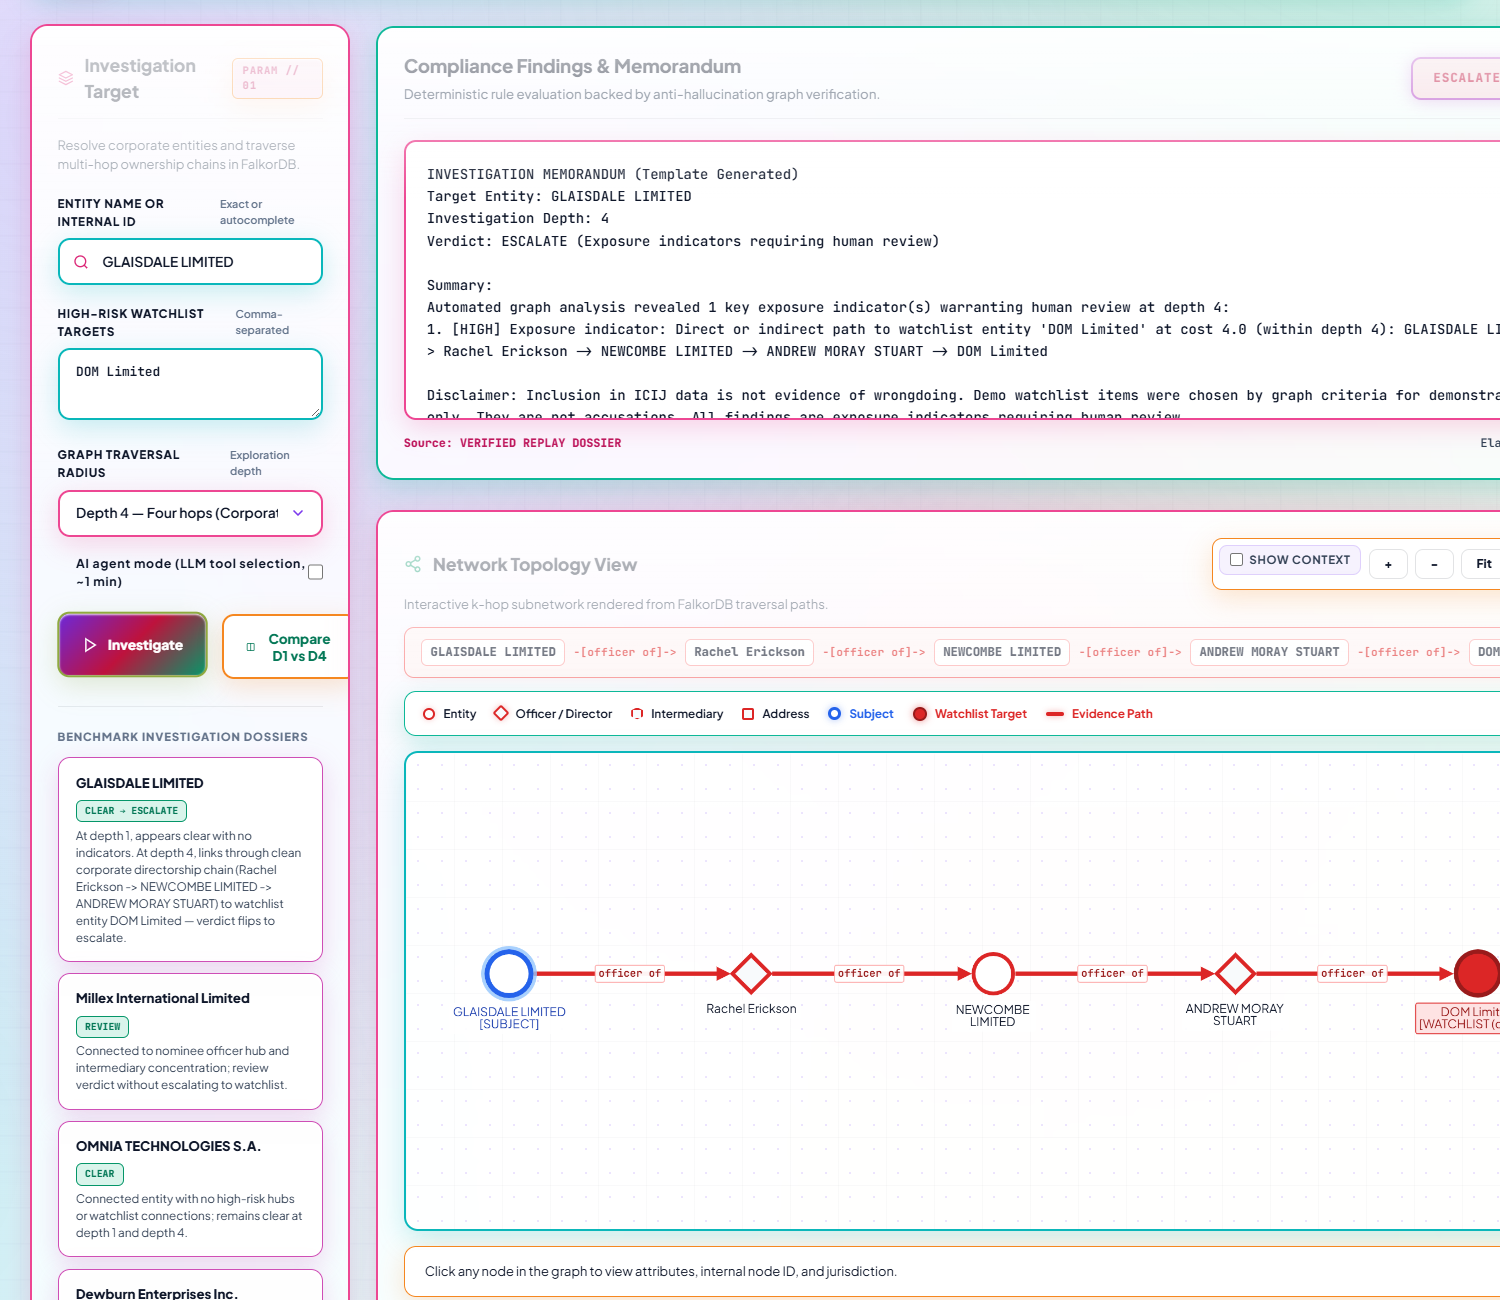
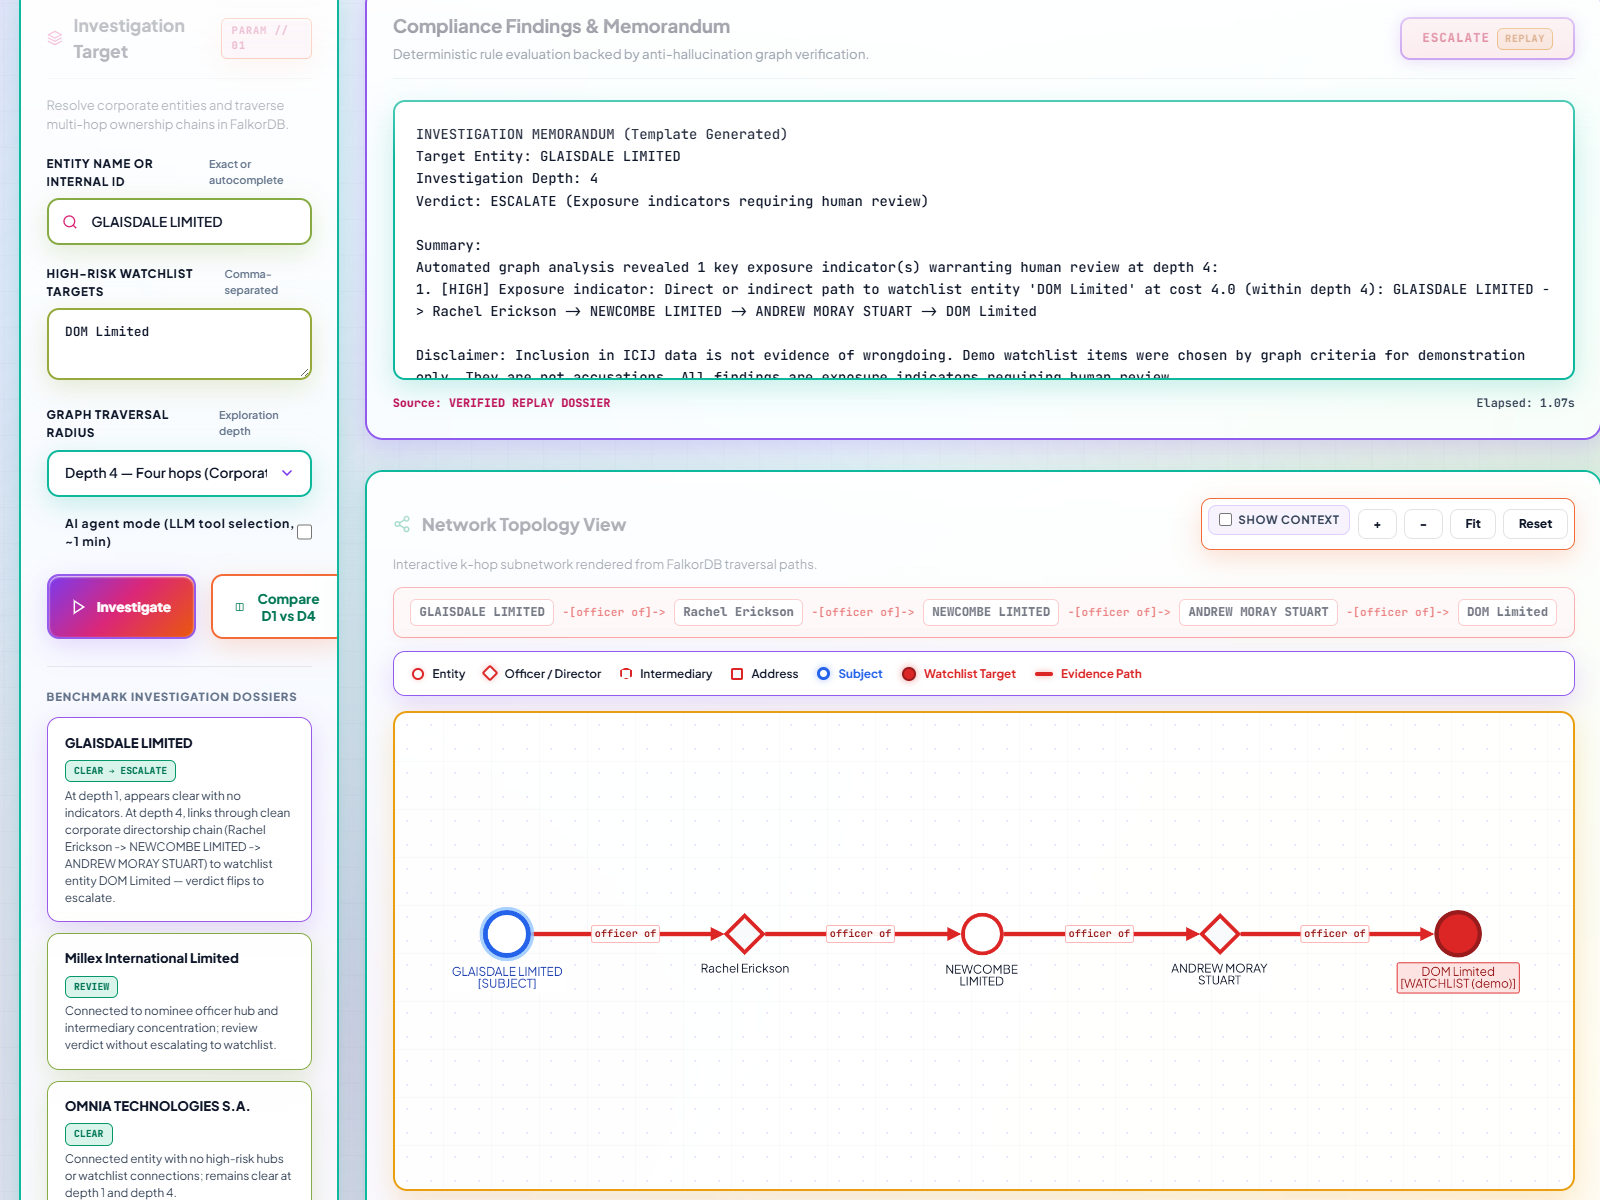
docs: add complete full graph screenshot and render fully completed comparison graphs

Changed region(s): [[0.0, 0.0, 1.0, 1.0]]

diff --git a/scripts/capture_live_screens.py b/scripts/capture_live_screens.py
@@ -12,65 +12,81 @@ os.makedirs(SCREEN_DIR, exist_ok=True)
 def capture():
     with sync_playwright() as p:
         browser = p.chromium.launch(channel="chrome")
-        page = browser.new_page(viewport={"width": 1500, "height": 1300})
+        # 1600x1200 high-res viewport
+        page = browser.new_page(viewport={"width": 1600, "height": 1200})
         print("Navigating to live deployed app: https://acd-agent-3hz7.onrender.com/")
         page.goto("https://acd-agent-3hz7.onrender.com/")
         page.wait_for_load_state("networkidle")
         time.sleep(1.5)
 
-        # 1. Primary Investigation Screenshot
+        # -------------------------------------------------------------
+        # 1. Primary Investigation (GLAISDALE LIMITED, Depth 4)
+        # -------------------------------------------------------------
         print("Submitting investigation for GLAISDALE LIMITED (Depth 4)...")
         page.fill("#entityInput", "GLAISDALE LIMITED")
         page.fill("#watchlistInput", "DOM Limited")
         page.select_option("#depthSelect", "4")
         page.click("#btnRun")
 
-        page.wait_for_selector("#btnRun:not([disabled])", timeout=30000)
+        print("Waiting for investigation run to finish...")
+        page.wait_for_selector("#btnRun:not([disabled])", timeout=35000)
         page.wait_for_function("() => window.cy && window.cy.nodes().length > 0", timeout=15000)
         time.sleep(2.0)
-        page.evaluate("() => window.cy && window.cy.fit(null, 40)")
+
+        # Fit graph nicely with comfortable padding
+        page.evaluate("() => window.cy && window.cy.fit(null, 50)")
         time.sleep(1.0)
 
-        # Scroll down slightly so the entire investigation dashboard (verdict + graph) fits comfortably in view
-        page.evaluate("() => window.scrollTo(0, 120)")
-        time.sleep(0.5)
+        # A. COMPLETE FULL GRAPH SCREENSHOT
+        # Capture the entire Network Topology View card (including toolbar, hop-banner, legend, and cy canvas)
+        graph_card = page.query_selector(".card:has(#cy)")
+        if graph_card:
+            graph_card.scroll_into_view_if_needed()
+            time.sleep(0.5)
+            full_graph_path = os.path.join(SCREEN_DIR, "complete_full_graph.png")
+            graph_card.screenshot(path=full_graph_path)
+            print("Saved complete full graph:", full_graph_path)
 
-        # Capture primary investigation view
+        # B. DESKTOP INVESTIGATION DASHBOARD SCREENSHOT
+        # Scroll up to show the Parameters + Findings Memo + Network Topology together
+        page.evaluate("() => window.scrollTo(0, 160)")
+        time.sleep(0.5)
         inv_path = os.path.join(SCREEN_DIR, "desktop_investigation.png")
         page.screenshot(path=inv_path)
-        print("Saved:", inv_path)
+        print("Saved investigation dashboard:", inv_path)
 
-        # Capture focused graph topology canvas
-        cy_el = page.query_selector(".card:has(#cy)")
-        if cy_el:
-            graph_path = os.path.join(SCREEN_DIR, "graph_focused.png")
-            cy_el.screenshot(path=graph_path)
-            print("Saved:", graph_path)
-
-        # 2. Depth 1 vs Depth 4 Comparison Screenshot
-        print("Running depth comparison (D1 vs D4)...")
+        # -------------------------------------------------------------
+        # 2. Depth 1 vs Depth 4 Comparison (MUST WAIT FOR FULL COMPLETION)
+        # -------------------------------------------------------------
+        print("Triggering Depth Comparison (D1 vs D4)...")
+        page.evaluate("() => window.scrollTo(0, 0)")
+        time.sleep(0.5)
         page.click("#btnCompare")
 
-        # Wait for comparison SSE stream to complete both D1 and D4
+        print("Waiting for BOTH Depth 1 and Depth 4 to completely finish...")
         page.wait_for_function(
             "() => {"
-            "  const badge = document.querySelector('#contrastD4Badge .badge');"
-            "  return badge && !badge.textContent.includes('RUNNING');"
+            "  const b1 = document.querySelector('#contrastD1Badge .badge');"
+            "  const b4 = document.querySelector('#contrastD4Badge .badge');"
+            "  const hasD1 = b1 && b1.textContent.includes('NO INDICATORS');"
+            "  const hasD4 = b4 && b4.textContent.includes('ESCALATE');"
+            "  return hasD1 && hasD4;"
             "}",
-            timeout=30000,
+            timeout=60000,
         )
-        time.sleep(2.0)
+        print("Both D1 (CLEAR) and D4 (ESCALATE) completed!")
+        time.sleep(3.0)  # Crucial: allow cytoscape to layout, calculate positions, and render canvases
 
-        # Scroll contrast card into clean view
-        page.evaluate("() => document.getElementById('contrastCard').scrollIntoView({ behavior: 'instant', block: 'start' })")
-        time.sleep(1.0)
-
-        comp_path = os.path.join(SCREEN_DIR, "desktop_comparison.png")
-        page.screenshot(path=comp_path)
-        print("Saved:", comp_path)
+        contrast_card = page.query_selector("#contrastCard")
+        if contrast_card:
+            contrast_card.scroll_into_view_if_needed()
+            time.sleep(1.0)
+            comp_path = os.path.join(SCREEN_DIR, "desktop_comparison.png")
+            contrast_card.screenshot(path=comp_path)
+            print("Saved completed comparison:", comp_path)
 
         browser.close()
-        print("ALL SCREENSHOTS CAPTURED SUCCESSFULLY!")
+        print("ALL SCREENSHOTS SUCCESSFULLY CAPTURED AND SAVED!")
 
 
 if __name__ == "__main__":

diff --git a/README.md b/README.md
@@ -67,7 +67,7 @@ Depth 4: GLAISDALE LIMITED (Entity 10024477, deg 5)
 
 At depth 1, the entity appears completely benign with 0 exposure indicators. At depth 4, multi-hop traversal across corporate directorship links uncovers direct exposure to `DOM Limited`, a defaulted entity on the compliance watchlist. This chain passes through zero intermediaries and zero mass-incorporation address hubs—it is an authentic corporate directorship chain.
 
-![Topological Graph Traversal Chain to DOM Limited](docs/screens/graph_focused.png)
+![Complete Full Network Graph Topology](docs/screens/complete_full_graph.png)
 
 ### Empirical Graph Exposure Statistics & Degree-Matched Baseline
 To quantify graph connectivity across the Panama Papers dataset without hub shortcut artifacts, degree-matched sampling and exact vs. cumulative measurements were performed ([docs/exposure_stats.json](docs/exposure_stats.json)):
